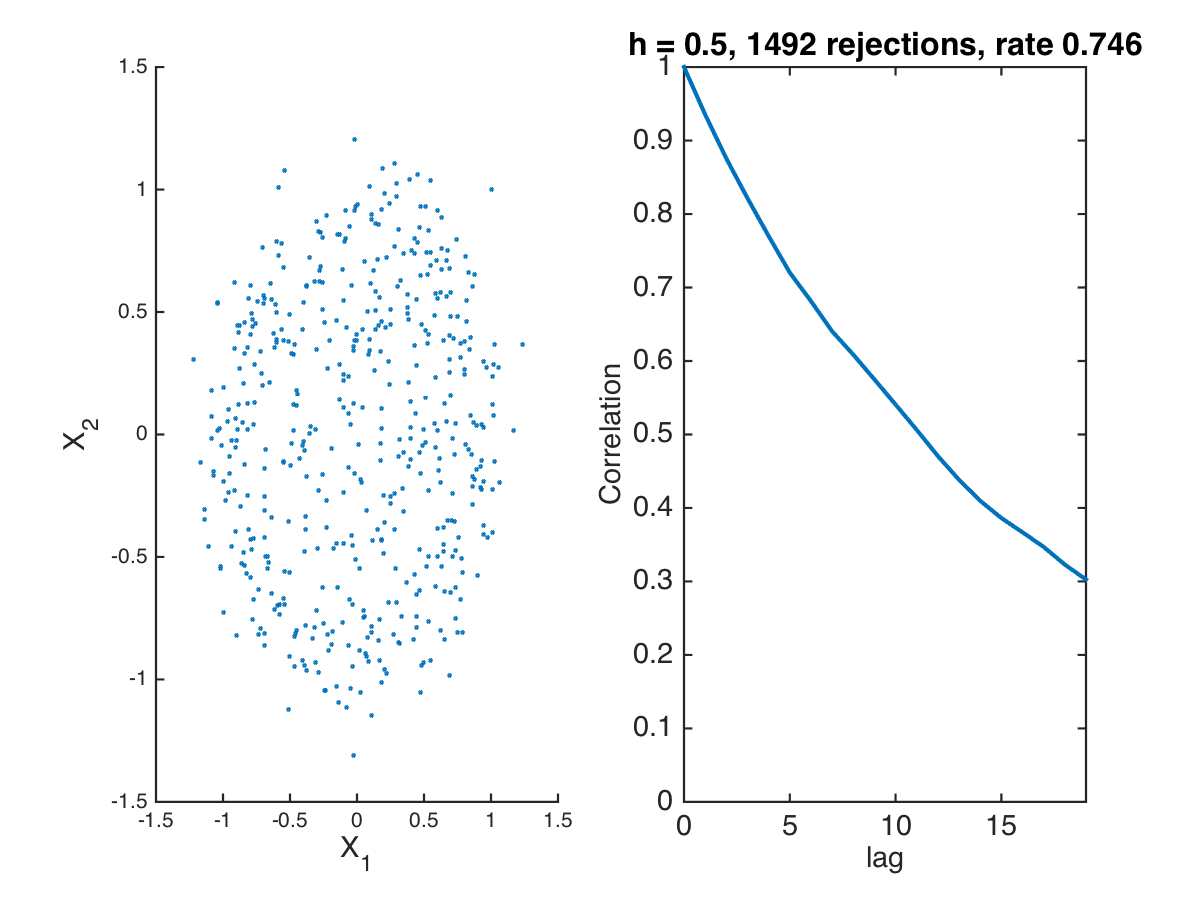
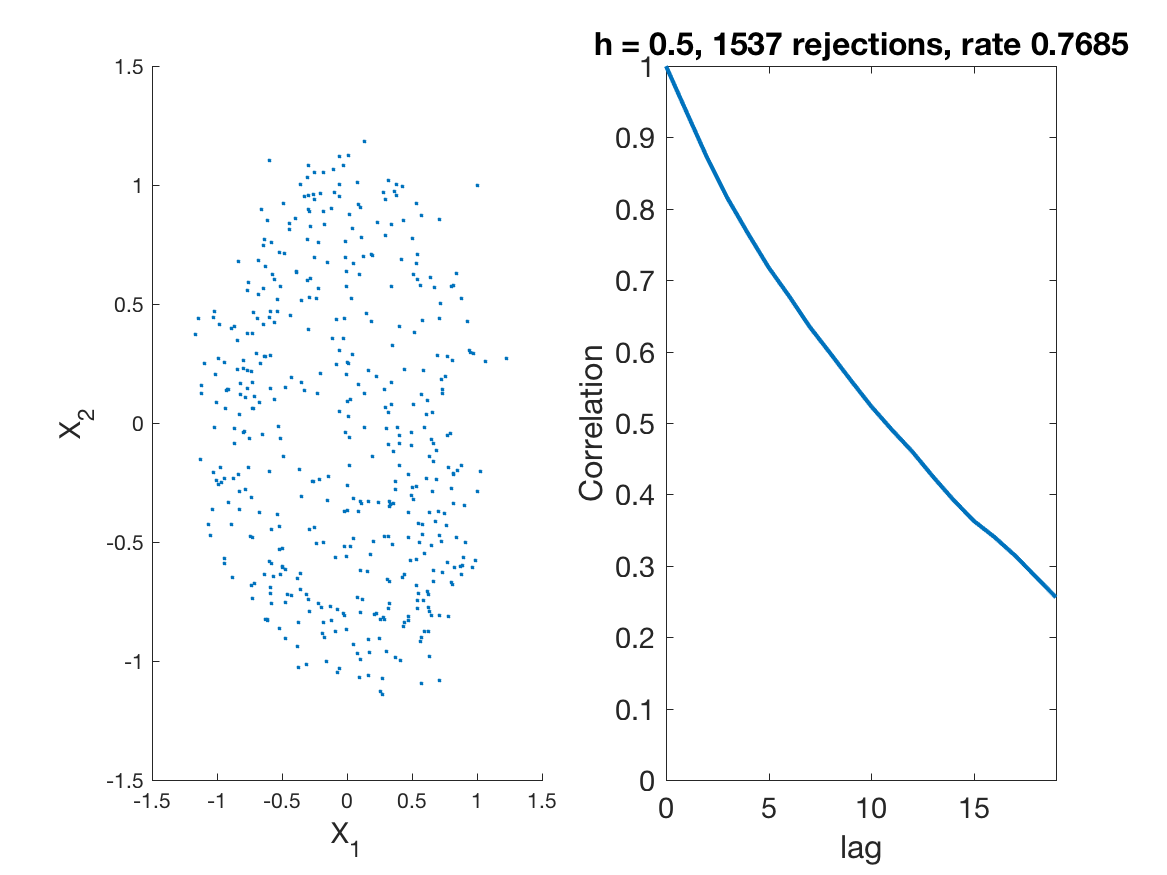
decreased time step for MALA

diff --git a/Random_walk_metropolis/functions/sample_MALA.m b/Random_walk_metropolis/functions/sample_MALA.m
@@ -7,7 +7,7 @@ function [X, rejections] = sample_MALA(N, h, V, dV , X0)
 %              initial condition X0 of size (d,1)
 % return : trajectory X, array (d,N)
 
-dt = 0.5*h^2;
+dt = sqrt(h);%0.5*h^2;
 rejections = 0 ;
 
 % determine dimension from the initial condition
@@ -26,7 +26,9 @@ for n = 1 : N - 1
     % proposal 
     Z = normrnd(0,1, size(xn));
     
-    xn = xn - dV(xn) * dt + sqrt(2.0 * dt) * Z;
+    xn = xn - 0.5 * dV(xn) * dt + sqrt(  dt) * Z;
+    
+    X(:,n+1) = xn;
     
     T_new =  V(xn) ;
     T_old =  V(xnOld) ;
@@ -34,16 +36,16 @@ for n = 1 : N - 1
     acceptanceProbaX =  exp( - (T_old - T_new) ) * ( TproposalMALA(xn,xnOld, dV ,dt) / TproposalMALA(xnOld, xn, dV, dt));
     
     %Metropolis step: acceptance ratio
-           
+    
     if (  acceptanceProbaX < rand(1) )
         % refuse
         X(:,n+1) = xnOld;
         rejections = rejections+1;
-    else
-        % accept
-        X(:,n+1) = xn;
+ 
        
     end
+
+
     
 end
 

diff --git a/Random_walk_metropolis/main5_comparisonMALAandRW.m b/Random_walk_metropolis/main5_comparisonMALAandRW.m
@@ -26,7 +26,7 @@ lag  = 0:19;
 k = 100.0;
 d = 100;
 % radius
-r = @(x) norm(x, 2);
+r = @(x)  norm(x, 2);
 % potential: notation from the paper- mathcal{L} = -V
 V = @(x) 0.5 * k * (r(x) - 1)^2; %debug 0.5* x'*x;%
 % gradient of the potential
@@ -41,7 +41,7 @@ X0 = ones(d, 1);
 %% Random Walk
 % step size
 h = 0.025;
-numberOfSteps = 500;
+numberOfSteps = 10000;
 
 f11 = figure(11);
 hold on
@@ -81,8 +81,8 @@ print(f11,'figures/figure11','-dpng')
 % %% MALA
 % % step size
 
-h = 0.25;
-numberOfSteps = 1000;
+h = 0.0000001;
+numberOfSteps = 10000;
 
 fprintf('Sampling with MALA\n');
  

diff --git a/Random_walk_metropolis/main6_comparison_RW_MALA_HMC.m b/Random_walk_metropolis/main6_comparison_RW_MALA_HMC.m
@@ -31,7 +31,7 @@ r = @(x) norm(x, 2);
 V = @(x) 0.5 * k * (r(x) - 1)^2; %debug 0.5* x'*x;%
 % gradient of the potential
 %debug with dV = @(x) x;%
-dV = @(x) k * (r(x) - 1).* x./r(x);%k * (r(x) - 1).*sign(x);
+dV = @(x) k * (r(x) - 1).*x./r(x);%k * (r(x) - 1).*sign(x);
 % target probability density
 rho = @(x) exp(- V(x));
 
@@ -80,8 +80,8 @@ print(f14,'figures/figure14','-dpng')
 %%
 % %% MALA
 % % step size
-h = 0.025;
-numberOfSteps = 2000;
+h = 0.0001;
+numberOfSteps = 20000;
 
 fprintf('Sampling with MALA\n');
  

diff --git a/Random_walk_metropolis/functions/TproposalMALA.m b/Random_walk_metropolis/functions/TproposalMALA.m
@@ -1,8 +1,8 @@
 function prop = TproposalMALA(pNew, pOld,  dV, t)
 
 
-     Tx = pNew - pOld + t *dV(pOld);
+     Tx = pNew - pOld + 0.5 * t *dV(pOld);
      
-     Tabs = (Tx'*Tx ) / (2.0 * t);
+     Tabs = (Tx'*Tx ) / ( t);
      prop =   exp(-Tabs / 2.0);
 end
